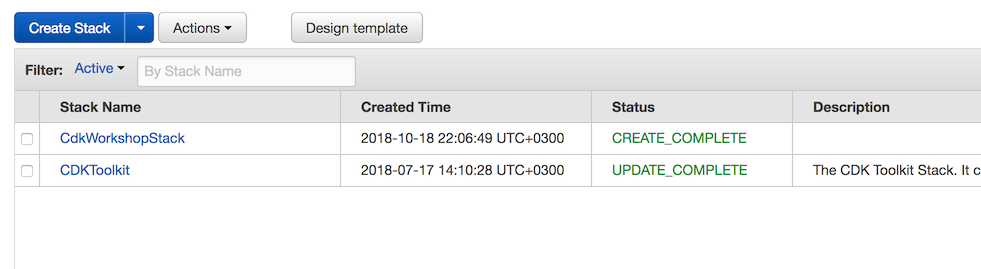
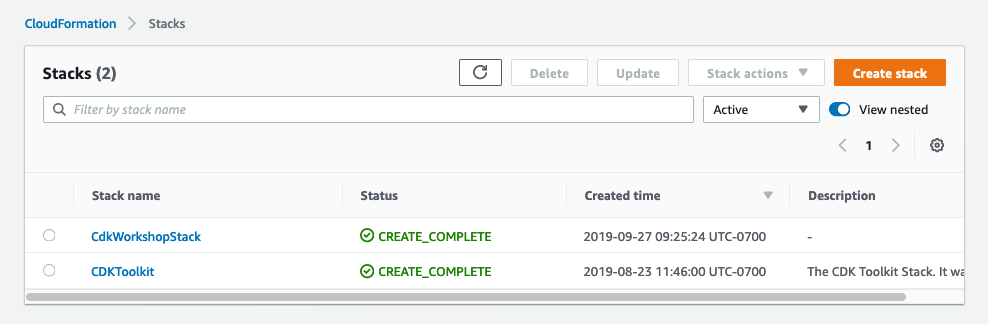
chore: various small improvements (#89)
* fix typos

* fix broken links

* add notes and reword some text

* replace old cloudformation console screenshots with updated ones

diff --git a/workshop/content/30-python/30-hello-cdk/100-cleanup.md b/workshop/content/30-python/30-hello-cdk/100-cleanup.md
@@ -32,9 +32,8 @@ is also removed from `hello/hello_stack.py` after deleteing the file.
 
 ## cdk diff
 
-Now, that we modified our stack's contents, we can ask the toolkit to show us
-what will happen if we run `cdk deploy` (the difference between our CDK app and
-what's currently deployed):
+Now that we modified our stack's contents, we can ask the toolkit to show us the difference between our CDK app and
+what's currently deployed. This is a safe way to check what will happen once we run `cdk deploy` and is always good practice:
 
 ```
 cdk diff hello-cdk-1

diff --git a/workshop/content/20-typescript/30-hello-cdk/100-cleanup.md b/workshop/content/20-typescript/30-hello-cdk/100-cleanup.md
@@ -25,9 +25,8 @@ export class CdkWorkshopStack extends cdk.Stack {
 
 ## cdk diff
 
-Now, that we modified our stack's contents, we can ask the toolkit to show us
-what will happen if we run `cdk deploy` (the difference between our CDK app and
-what's currently deployed):
+Now that we modified our stack's contents, we can ask the toolkit to show us the difference between our CDK app and
+what's currently deployed. This is a safe way to check what will happen once we run `cdk deploy` and is always good practice:
 
 ```
 cdk diff

diff --git a/workshop/content/20-typescript/20-create-project/300-structure.md b/workshop/content/20-typescript/20-create-project/300-structure.md
@@ -15,7 +15,7 @@ You'll see something like this:
 
 ![](./structure.png)
 
-* __`lib/cdk-workshop-stack.ts`__ is where the your CDK application's main stack is defined.
+* __`lib/cdk-workshop-stack.ts`__ is where your CDK application's main stack is defined.
   This is the file we'll be spending most of our time in.
 * `bin/cdk-workshop.ts` is the entrypoint of the CDK application. It will load
   the stack defined in `lib/cdk-workshop-stack.ts`.

diff --git a/workshop/content/20-typescript/40-hit-counter/500-logs.md b/workshop/content/20-typescript/40-hit-counter/500-logs.md
@@ -23,7 +23,7 @@ you how to find your logs through the AWS console.
 3. Click on __Monitoring__
     ![](./logs2.png)
 
-4. Click on __View on CloudWatch Logs__. This will open the AWS CloudWatch console.
+4. Click on __View logs in CoudWatch__. This will open the AWS CloudWatch console.
     ![](./logs3.png)
 
 5. Select the most-recent log group.

diff --git a/workshop/content/30-python/20-create-project/500-deploy.md b/workshop/content/30-python/20-create-project/500-deploy.md
@@ -138,7 +138,7 @@ your stacks.
 Let's take a look at the [AWS CloudFormation
 console](https://console.aws.amazon.com/cloudformation/home).
 
-You will likely see something like this:
+You will likely see something like this (if you don't, make sure you are in the correct region):
 
 ![](./cfn1.png)
 

diff --git a/workshop/content/20-typescript/20-create-project/500-deploy.md b/workshop/content/20-typescript/20-create-project/500-deploy.md
@@ -99,7 +99,7 @@ your stacks.
 Let's take a look at the [AWS CloudFormation
 console](https://console.aws.amazon.com/cloudformation/home).
 
-You will likely see something like this:
+You will likely see something like this (if you don't, make sure you are in the correct region):
 
 ![](./cfn1.png)
 

diff --git a/workshop/content/20-typescript/40-hit-counter/_index.md b/workshop/content/20-typescript/40-hit-counter/_index.md
@@ -11,7 +11,7 @@ construct can be attached to any Lambda function that's used as an API Gateway
 backend, and it will count how many requests were issued to each URL path. It
 will store this in a DynamoDB table.
 
-![](images/hit-counter.png)
+![](/images/hit-counter.png)
 
 ## See Also
 

diff --git a/workshop/content/30-python/40-hit-counter/_index.md b/workshop/content/30-python/40-hit-counter/_index.md
@@ -11,7 +11,7 @@ construct can be attached to any Lambda function that's used as an API Gateway
 backend, and it will count how many requests were issued to each URL path. It
 will store this in a DynamoDB table.
 
-![](images/hit-counter.png)
+![](/images/hit-counter.png)
 
 ## See Also
 

diff --git a/workshop/content/30-python/50-table-viewer/_index.md b/workshop/content/30-python/50-table-viewer/_index.md
@@ -10,5 +10,5 @@ In this chapter we will import a construct library called
 [cdk-dynamo-table-viewer](https://www.npmjs.com/package/cdk-dynamo-table-viewer)
 into our project and install it on our hit counter table.
 
-![](images/table-viewer.png)
+![](/images/table-viewer.png)
 

diff --git a/workshop/content/20-typescript/30-hello-cdk/_index.md b/workshop/content/20-typescript/30-hello-cdk/_index.md
@@ -13,6 +13,6 @@ Gateway endpoint in front of it.
 Users will be able to hit any URL in the endpoint and they'll receive a
 heartwarming greeting from our function.
 
-![](images/hello-arch.png)
+![](/images/hello-arch.png)
 
 First, let's clean up the sample code.

diff --git a/workshop/content/30-python/30-hello-cdk/_index.md b/workshop/content/30-python/30-hello-cdk/_index.md
@@ -13,6 +13,6 @@ Gateway endpoint in front of it.
 Users will be able to hit any URL in the endpoint and they'll receive a
 heartwarming greeting from our function.
 
-![](images/hello-arch.png)
+![](/images/hello-arch.png)
 
 First, let's clean up the sample code.

diff --git a/workshop/content/30-python/40-hit-counter/400-use.md b/workshop/content/30-python/40-hit-counter/400-use.md
@@ -53,6 +53,7 @@ relayed back in the reverse order all the way to the user.
 ```
 cdk deploy hello-cdk-1
 ```
+It might take a little while.
 
 And the output:
 
